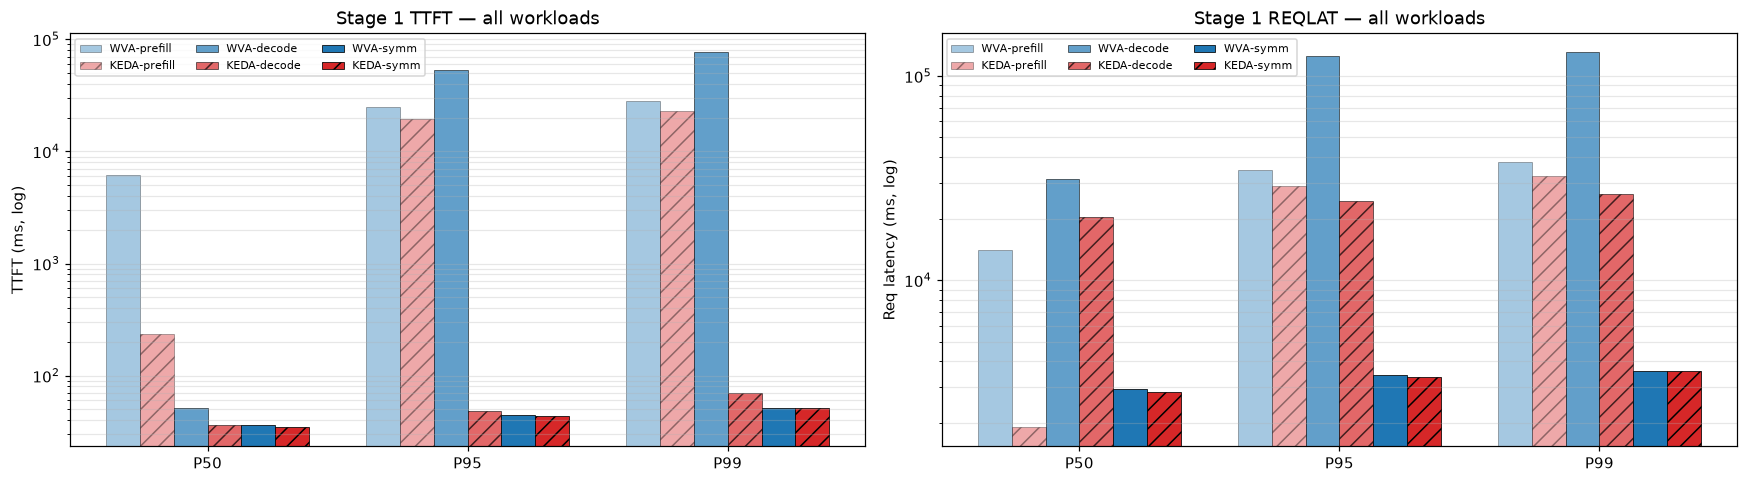
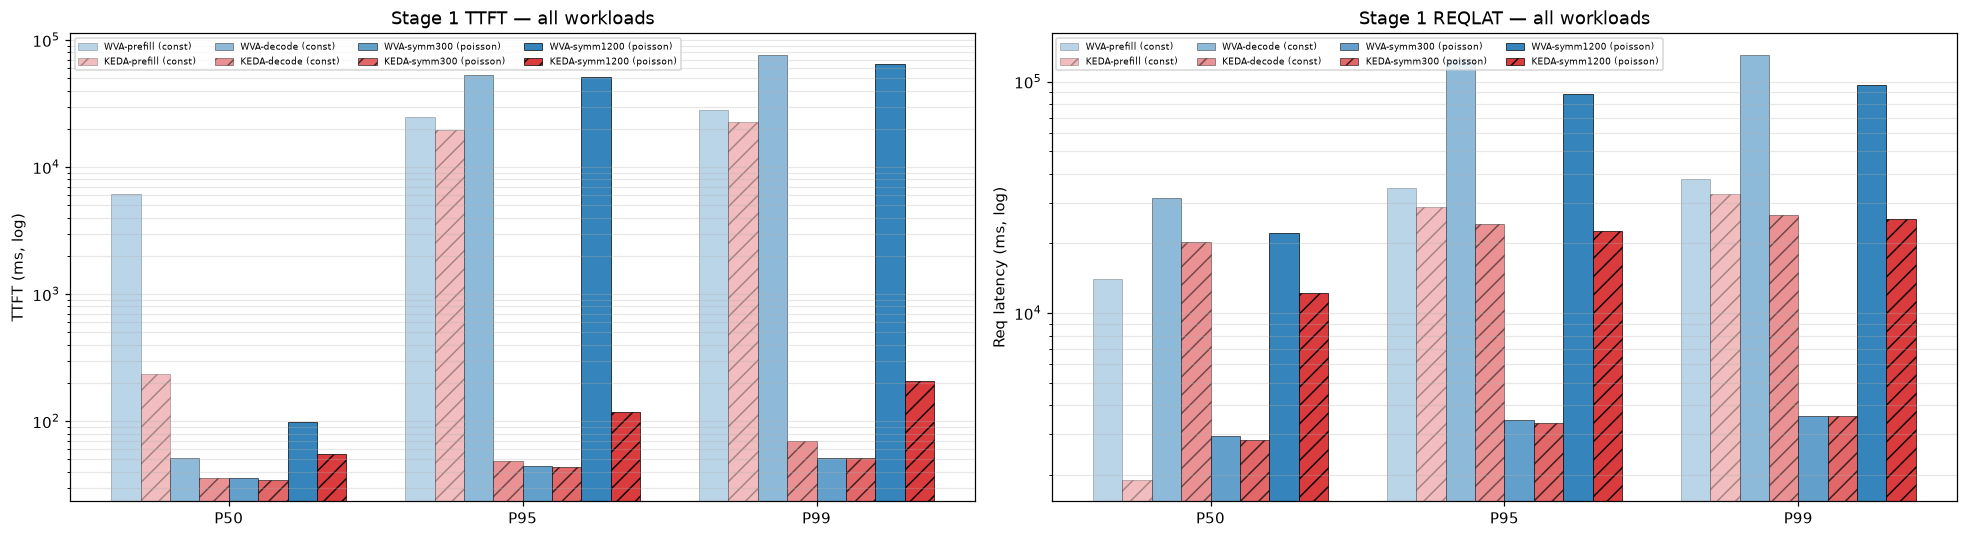
docs(comparison): add symmetric 1200/1200 Poisson runs
Adds a fourth workload pair to the WVA vs KEDA-EPP fair comparison:
symmetric 1200 input / 1200 output tokens, Poisson arrivals, 2->10 RPS.
Unlike the earlier 300/300 Poisson which fits in one pod, this workload
saturates a single TP=1 pod and forces both schedulers to scale up.

Results:
  - WVA:  7096 succ / 104 err (1.44%), TTFT p99 65s, avg 2.45 pods
  - KEDA: 7174 succ /  26 err (0.36%), TTFT p99 209ms, avg 5.16 pods

WVA's target dropped 9->2 the moment all 9 pods came online (KV util
crossed the scaleDown boundary of 70% because supply now vastly
exceeded in-use demand). The cascade of pod terminations while stage 1
was still active killed 104 in-flight streams with ClientPayloadError,
the same pattern that hit KEDA-EPP on the 300/300 Poisson run at a
scale-down event.

Regenerates all three graphs (replicas timeline, latency bars, cost +
error) as 4-panel/8-column versions covering all four workloads.
Extends Reading/Conclusions/Recommendations to reflect the finding
that WVA's scaleDown boundary is too eager once pods come online.

diff --git a/comparison-wva-keda-epp-20260722/comparison.md b/comparison-wva-keda-epp-20260722/comparison.md
@@ -16,7 +16,7 @@ Namespace: `biran` (pokprod001)
 Model: `unsloth/Meta-Llama-3.1-8B-Instruct` (TP=1)
 Harness: inference-perf v0.7.0
 
-Six back-to-back runs on the same cluster and model service (two workloads with constant arrivals + one workload with Poisson arrivals, each run under both schedulers); only the autoscaling controller loop was swapped between runs.
+Eight back-to-back runs on the same cluster and model service (two constant-arrival workloads + two Poisson workloads, each run under both schedulers); only the autoscaling controller loop was swapped between runs.
 
 ## Setup
 
@@ -37,7 +37,8 @@ Both share the same KEDA HPA scaleUp/scaleDown behavior: Percent=100/15s, ScaleU
 Workloads (inference-perf, all 2 → 10 RPS with 5-min warm-up + 12-min saturation):
 - **prefill-heavy** (constant arrival): input 4K tokens, output 100 tokens.
 - **decode-heavy** (constant arrival): input 100 tokens, output 2K tokens.
-- **symmetric 300/300** (Poisson arrival): input ≈300 tokens, output ≈300 tokens.
+- **symmetric 300/300** (Poisson arrival): input ≈300 tokens, output ≈300 tokens. Fits in one pod; probes scheduler stability under arrival jitter.
+- **symmetric 1200/1200** (Poisson arrival): input ≈1200 tokens, output ≈1200 tokens. **Exceeds one pod's KV capacity**, so both schedulers must scale; probes scale-up + scale-down behaviour under bursts.
 
 **Load profile**: the two constant-arrival workloads use `load.type: constant` — requests fire at strictly fixed inter-arrival times. The third workload uses `load.type: poisson`, which draws inter-arrival intervals from an exponential distribution at the same mean rate. Poisson arrivals produce short bursts even at a modest mean and expose reactive schedulers' sensitivity to instantaneous rates.
 
@@ -109,74 +110,125 @@ Counter-intuitive at first — but the KEDA errors are *caused by* the extra sca
 
 Root cause chain: Poisson burst → `running_requests` transiently > 16/pod → KEDA scales up → burst ends → scaleDown stabilization window (120 s) elapses → KEDA scales down → SIGTERM to a busy pod → in-flight streams die with `ClientPayloadError`. WVA never scaled, so no terminations, so no disruption. **Fewer pods produced fewer errors because the pods that existed were stable.**
 
+### Symmetric 1200/1200 — Poisson arrival (both must scale)
+
+At 1200 in + 1200 out tokens per request, one pod's KV supply (~336 K tokens) is no longer enough at 10 RPS — both schedulers had to scale up.
+
+| metric                   | WVA-1200 |  KEDA-1200 |
+|--------------------------|----------|------------|
+| requests                 |     7200 |       7200 |
+| successful               |     7096 |   **7174** |
+| errors                   |      104 |     **26** |
+| error rate               |    1.44% |  **0.36%** |
+| achieved RPS             |    10.08 |       9.78 |
+| avg ready replicas       | **2.45** |       5.16 |
+| max ready                |        9 |         10 |
+| max desired              |        9 |         10 |
+| state transitions        |       13 |         14 |
+| TTFT p50 (ms)            |     99.4 |   **55.2** |
+| TTFT p95 (ms)            |   51,483 |    **119** |
+| TTFT p99 (ms)            |   65,059 |    **209** |
+| Request latency p50 (ms) |   22,126 | **12,160** |
+| Request latency p95 (ms) |   88,573 | **22,617** |
+| Request latency p99 (ms) |   97,081 | **25,576** |
+| TPOT p50 (ms)            |     18.0 |   **10.1** |
+| TPOT p95 (ms)            |     37.7 |   **19.9** |
+
+**KEDA-EPP wins here on almost every axis — reliability, TTFT, tail latency, TPOT — at ~2.1× the compute cost.**
+
+#### What went wrong with WVA on 1200/1200
+
+WVA reacted quickly and correctly to the arriving load — its `wva_desired_replicas` ramped `1 → 2 → 7 → 9` in about 90 s. But once **all 9 pods came online at T+4:20**, the WVA analyzer instantly reassessed the demand model: 9 pods of ~336 K KV supply = ~3 M tokens supply vs a current KV usage of ~200 K tokens, i.e. util ~7 %. That crossed the scaleDown boundary (70 %) hard, so WVA emitted target=2 **while stage 1 was still active**. HPA started terminating pods within the next ~120 s (scaleDown stabilization). The 104 errors correlate to the pod-termination window — the same `ClientPayloadError` mid-stream pattern as the 300/300 KEDA case, but this time WVA is the one causing it.
+
+Contrast with KEDA-EPP, which keyed off `running_requests` (not "spare KV capacity"): pods stayed busy, `running_avg` stayed above 12/pod, so the scaleDown-below-threshold condition simply didn't fire during stage 1. It only scaled down after the harness stopped emitting load.
+
+WVA is more measured at ramp-up but too eager at ramp-down: it releases capacity as soon as "supply comfortably exceeds current in-use demand", without accounting for the fact that the mid-flight requests holding those pods busy can't survive a pod restart.
+
 ## Graphs
 
 ### Replicas over time
 
-![Replicas over time — prefill / decode / Poisson](img/replicas_timeline.png)
+![Replicas over time — all 4 workloads](img/replicas_timeline.png)
 
-- **Prefill (constant)**: WVA climbs to 8 in ~9 min. KEDA-EPP rockets 1→10 in ~45 s, then oscillates 1↔4↔2↔3 as the queue metric bounces.
-- **Decode (constant)**: WVA climbs to 7 then drops to 1 mid-run (that drop is where WVA's 186 errors happen). KEDA-EPP holds at 10 for the entire stage 1, drops only after load ends.
+- **Prefill 4K/100 (constant)**: WVA climbs to 8 in ~9 min. KEDA-EPP rockets 1→10 in ~45 s, then oscillates 1↔4↔2↔3 as the queue metric bounces.
+- **Decode 100/2K (constant)**: WVA climbs to 7 then drops to 1 mid-run (WVA's 186 errors happen at that drop). KEDA-EPP holds at 10 for the entire stage 1, drops only after load ends.
 - **Symmetric 300/300 (Poisson)**: WVA stays flat at 1 (correct — the load fits in one pod). KEDA-EPP oscillates 1↔2↔3 because Poisson bursts trip the `running_requests > 16/pod` threshold intermittently.
+- **Symmetric 1200/1200 (Poisson)**: WVA climbs to 9 then drops to 2 as soon as all pods come online (this drop causes 104 errors from in-flight-stream termination). KEDA-EPP climbs to 10 and holds throughout stage 1.
 
 ### Latency — TTFT and request latency at each percentile (log scale)
 
 ![Latency percentiles](img/latency_bars.png)
 
-- On the two constant-arrival workloads (prefill + decode), KEDA-EPP wins at every percentile.
-- On the Poisson symmetric-300/300 workload, WVA and KEDA-EPP bars are visually indistinguishable at all three percentiles — the schedulers deliver equivalent latency.
-- The KEDA-EPP decode-heavy TTFT bars are barely visible on log scale — they sit at 36–69 ms while WVA's are 51 ms → 76 seconds (a three-orders-of-magnitude gap at p99).
+- On the constant-arrival workloads (prefill + decode), KEDA-EPP wins at every percentile.
+- On symmetric 300/300 Poisson, WVA and KEDA-EPP bars are visually indistinguishable — both easily meet SLO.
+- On symmetric 1200/1200 Poisson, KEDA-EPP again wins on every percentile, most dramatically at p95/p99 (log scale): KEDA is 100–200 ms while WVA is 50+ seconds.
 
 ### Cost and error rate side-by-side
 
 ![Cost + error rate](img/cost_and_errors.png)
 
-- On **prefill-heavy (constant)**: KEDA-EPP is slightly cheaper AND lower TTFT — WVA has no advantage.
-- On **decode-heavy (constant)**: WVA is much cheaper (2.13 vs 4.90 pods) but trades that for 2.58 % errors and 5-second p95 tail latency inflation.
-- On **symmetric 300/300 (Poisson)**: WVA holds at 1 pod with 0 errors; KEDA-EPP spends 88 % more GPUs and produces 30 errors for effectively the same latency. **Clearest WVA win in the dataset.**
+- **prefill-heavy (constant)**: KEDA-EPP slightly cheaper AND lower TTFT — WVA has no advantage.
+- **decode-heavy (constant)**: WVA cheaper (2.13 vs 4.90 pods) but trades that for 2.58 % errors and multi-second tail-latency inflation.
+- **symmetric 300/300 (Poisson)**: WVA holds at 1 pod with 0 errors; KEDA-EPP spends 88 % more GPUs and has 30 errors for equivalent latency. **Clear WVA win — headroom scenario.**
+- **symmetric 1200/1200 (Poisson)**: WVA cheaper (2.45 vs 5.16 pods) but 4× more errors and 200× worse tail latency (p99 65 s vs 209 ms). WVA released capacity mid-run once pods came online; those terminations killed 104 in-flight streams.
 
 ## Reading these numbers
 
-**Where KEDA-EPP wins (constant-arrival, saturating workloads):**
-1. **Reliability on decode-heavy**: 0 errors (WVA: 186). Aggressive scaling keeps the EPP queue near-empty.
-2. **TTFT tail** on decode-heavy: 69 ms vs 76.7 s at p99 — three orders of magnitude.
-3. **Slight edge on prefill-heavy cost**: 2.61 vs 2.91 avg replicas.
+**Where KEDA-EPP wins (saturating workloads that require scaling):**
+1. **Reliability on decode-heavy**: 0 errors (WVA: 186).
+2. **Reliability on symmetric 1200/1200 Poisson**: 26 errors (WVA: 104).
+3. **TTFT tail** across all saturating workloads — several orders of magnitude better at p95/p99.
+4. **Slight edge on prefill-heavy cost**: 2.61 vs 2.91 avg replicas.
 
-**Where WVA wins (headroom present, Poisson arrivals):**
-1. **Symmetric 300/300 with Poisson**: same latency, 88 % less compute, zero errors vs 30. Model-aware demand estimation refuses to react to short arrival bursts that fit inside the current pod's KV capacity.
-2. **Model-aware demand estimation** in general: WVA scales based on `demand tokens vs KV supply tokens`, so it doesn't confuse "a burst of 300-token requests" (fits in one pod) with "sustained overload" (needs more pods).
+**Where WVA wins (headroom present, load fits in one pod):**
+1. **Symmetric 300/300 with Poisson**: same latency, 88 % less compute, zero errors vs 30. Model-aware demand estimation refuses to react to bursts that fit inside the current pod's KV capacity.
+2. **Model-aware demand estimation** in general: WVA won't scale up on transient noise that doesn't reflect sustained pressure.
 
-**Where the comparison is not measuring WVA's full design intent:**
-- WVA's cost-aware optimizer only differentiates variants when there are **multiple variants** (e.g., primary at TP=2 and secondary at TP=1 with different `cost` weights). All runs above use a single TP=1 variant, so WVA's efficiency-vs-latency tradeoff collapses to "hold min pods that satisfy the demand model".
-- KEDA-EPP's two triggers (`queue` at threshold 1 and `running` at threshold 16) were picked to match the WVA setup's spirit, but the absolute thresholds heavily bias KEDA to over-react on any load that mildly touches those levels — including transient Poisson bursts that don't reflect sustained demand.
+**A recurring failure mode — mid-run scale-down killing in-flight streams:**
+Both schedulers exhibit it, at different times:
+- **KEDA-EPP on 300/300 Poisson** (T+516 s): running_requests briefly dropped, HPA scaled 3→2, streaming client on the terminating pod got `ClientPayloadError` × 30.
+- **WVA on 1200/1200 Poisson** (T+4:20): once all 9 pods came online, WVA re-computed util as ~7 % (target dropped 9→2), triggering cascade of terminations. 104 in-flight streams died with the same `ClientPayloadError`.
+- **WVA on decode-heavy constant** (mid-stage-1): same pattern — 186 errors from terminating pods mid-stream.
+
+Neither scheduler currently accounts for "how many in-flight streaming requests would die if I terminate this pod right now?" — the KEDA HPA `terminationGracePeriodSeconds` + vLLM's shutdown handling could bridge this, but neither is tuned for the multi-second inference latency here.
+
+**What single-variant experiments don't measure — WVA's cost-aware optimizer:**
+- WVA's cost-aware V2 optimizer only differentiates variants when there are **multiple variants** (e.g., primary at TP=2 and secondary at TP=1 with different `cost` weights). All 8 runs above use a single TP=1 variant, so WVA's efficiency-vs-latency tradeoff collapses to "hold min pods that satisfy the demand model" — a scenario the current threshold configuration doesn't handle well under sustained load.
+- KEDA-EPP's two triggers (`queue`=1 and `running`=16) were picked to match the WVA setup's intent, but at these thresholds KEDA is biased to over-react on any load mild enough that WVA would ignore it.
 
 ## Honest conclusions
 
-1. **KEDA-EPP is aggressive; WVA is measured.** Constant, saturating arrivals reward aggression → KEDA-EPP wins on decode-heavy. Poisson arrivals or headroom-plentiful workloads reward measurement → WVA wins on symmetric-Poisson.
-2. **Where WVA under-provisions (decode-heavy constant, saturating)** is because its scaleUpThreshold of 85 % KV util is tuned for cost-efficiency, not latency-headroom. Adjusting that threshold (or adding a queue-signal input to WVA's demand estimator) would close the gap without giving up its Poisson-run advantage.
-3. **The clearest WVA advantage from these six runs is Poisson robustness**: 0 vs 30 errors and 1.00 vs 1.88 avg replicas on the same input/output distribution. Any production workload with real-world arrival jitter should replicate this shape.
+1. **KEDA-EPP is aggressive; WVA is measured.** Aggression wins on saturating workloads; measure wins on workloads with real headroom.
+2. **The clearest single-variant WVA advantage is at symmetric 300/300 Poisson**: same SLO, 88 % less compute, zero errors. When the load truly fits in one pod, WVA correctly refuses to react to Poisson noise. Any workload with real-world arrival jitter and headroom-to-spare replicates this shape.
+3. **WVA under-performs on any workload that saturates a pod under sustained load.** Its scaleUpThreshold (85 % KV util) and scaleDown boundary (70 %) trigger a target-drop the moment all pods become ready — releasing capacity while load is still active and causing streaming errors. Two straightforward tuning knobs would help: (a) raise scaleDown boundary so pods stay longer once brought up, (b) add a "min pods to hold during stage 1" hysteresis so mid-run releases don't churn.
 4. **The full two-variant WVA story remains unexplored here.** Prior work (`project-two-variant-experiment`) showed WVA ~36 % cheaper than HPA-EPP-50/50 at equal SLO with two variants. That's the head-to-head that would show WVA's design payoff on its intended axis.
 
 ## Recommendations
 
-- **Workloads with variance / real-world arrivals** (Poisson, bursty, session-based): **prefer WVA**. Its model-aware demand estimator is less likely to over-react to noise, saving significant compute at equal SLO.
-- **Constant-rate saturating workloads with tight tail-latency SLOs** (e.g. decode-heavy at cap): **KEDA-EPP is currently the safer default** on single-variant deployments — but with the caveat that it will over-provision by ~2×.
+- **Workloads that comfortably fit in one pod** even under Poisson jitter (small tokens, low concurrency): **prefer WVA** — model-aware estimator refuses to over-react to noise. Saves ~2× compute at identical SLO.
+- **Workloads that saturate at 10 RPS or higher with tight tail-latency SLOs**: **prefer KEDA-EPP** — aggressive reactive scaling keeps tail latency 1–3 orders of magnitude tighter than WVA's current defaults, at the cost of ~2× the pods. WVA cannot compete here without threshold tuning.
 - **Two-variant deployments (primary TP=2 + secondary TP=1)**: **use WVA** — this is its designed sweet spot, and single-variant experiments here don't exercise the cost-aware optimizer. Rerun of these workloads on a two-variant install is the natural next step.
-- **WVA tuning knobs to try on decode-heavy**: lower `scaleUpThreshold` from 0.85 → 0.7; add or increase weight of the EPP-queue signal in the demand estimator; increase `scaleUpBoundary` / KEDA scaleUp policy percent so WVA target changes materialize faster.
+- **WVA tuning knobs to explore for saturating workloads**:
+  - Raise `scaleDownBoundary` from 0.7 → 0.5 (hold pods once brought up, only release when demand is drastically lower).
+  - Add a "hysteresis" or "hold pods for N minutes after scale-up" heuristic so a target=9 doesn't collapse to target=2 within 90 s.
+  - Include an EPP-queue-size term in the demand estimator (or in the scaleUp trigger) so WVA reacts before the queue backs up.
+  - Consider a graceful drain / `terminationGracePeriodSeconds` >> average inference time so pod-terminate never severs an in-flight stream.
 
 ## Reproducing
 
 Each run is at:
 
-| run                                  | results dir                                                             |
-|--------------------------------------|-------------------------------------------------------------------------|
-| WVA prefill (const)                  | `biran-20260722-004826-094/results/inference-perf-1784670547-tavc00_1/` |
-| WVA decode (const)                   | `biran-20260722-143624-638/results/inference-perf-1784720225-bhhjh1_1/` |
-| KEDA-EPP prefill (const)             | `biran-20260722-162141-516/results/inference-perf-1784726545-fli9qm_1/` |
-| KEDA-EPP decode (const)              | `biran-20260722-164602-489/results/inference-perf-1784728018-vsnfl4_1/` |
-| WVA symmetric 300/300 (poisson)      | `biran-20260722-223301-790/results/inference-perf-1784748830-ge3fgu_1/` |
-| KEDA-EPP symmetric 300/300 (poisson) | `biran-20260722-233247-978/results/inference-perf-1784752466-0yjpyg_1/` |
+| run                                    | results dir                                                             |
+|----------------------------------------|-------------------------------------------------------------------------|
+| WVA prefill (const)                    | `biran-20260722-004826-094/results/inference-perf-1784670547-tavc00_1/` |
+| WVA decode (const)                     | `biran-20260722-143624-638/results/inference-perf-1784720225-bhhjh1_1/` |
+| KEDA-EPP prefill (const)               | `biran-20260722-162141-516/results/inference-perf-1784726545-fli9qm_1/` |
+| KEDA-EPP decode (const)                | `biran-20260722-164602-489/results/inference-perf-1784728018-vsnfl4_1/` |
+| WVA symmetric 300/300 (poisson)        | `biran-20260722-223301-790/results/inference-perf-1784748830-ge3fgu_1/` |
+| KEDA-EPP symmetric 300/300 (poisson)   | `biran-20260722-233247-978/results/inference-perf-1784752466-0yjpyg_1/` |
+| WVA symmetric 1200/1200 (poisson)      | `biran-20260723-154507-242/results/inference-perf-1784810752-pbd8hi_1/` |
+| KEDA-EPP symmetric 1200/1200 (poisson) | `biran-20260723-174703-702/results/inference-perf-1784818070-8c8wez_1/` |
 
 KEDA-EPP ScaledObject: `hack/benchmark/scenarios/keda-epp/scaledobject.yaml`.
-Poisson workload profile: `test/benchmark/scenarios/symmetrical_300_2_10_poisson.yaml.in`.
+Poisson workload profiles: `test/benchmark/scenarios/symmetrical_300_2_10_poisson.yaml.in`, `symmetrical_1200_2_10_poisson.yaml.in`.
 Swap procedure (in place, no teardown): pause WVA controller (`kubectl scale deploy/wva-controller-manager --replicas=0`), delete the WVA ScaledObject, apply the keda-epp one, run, then restore.
